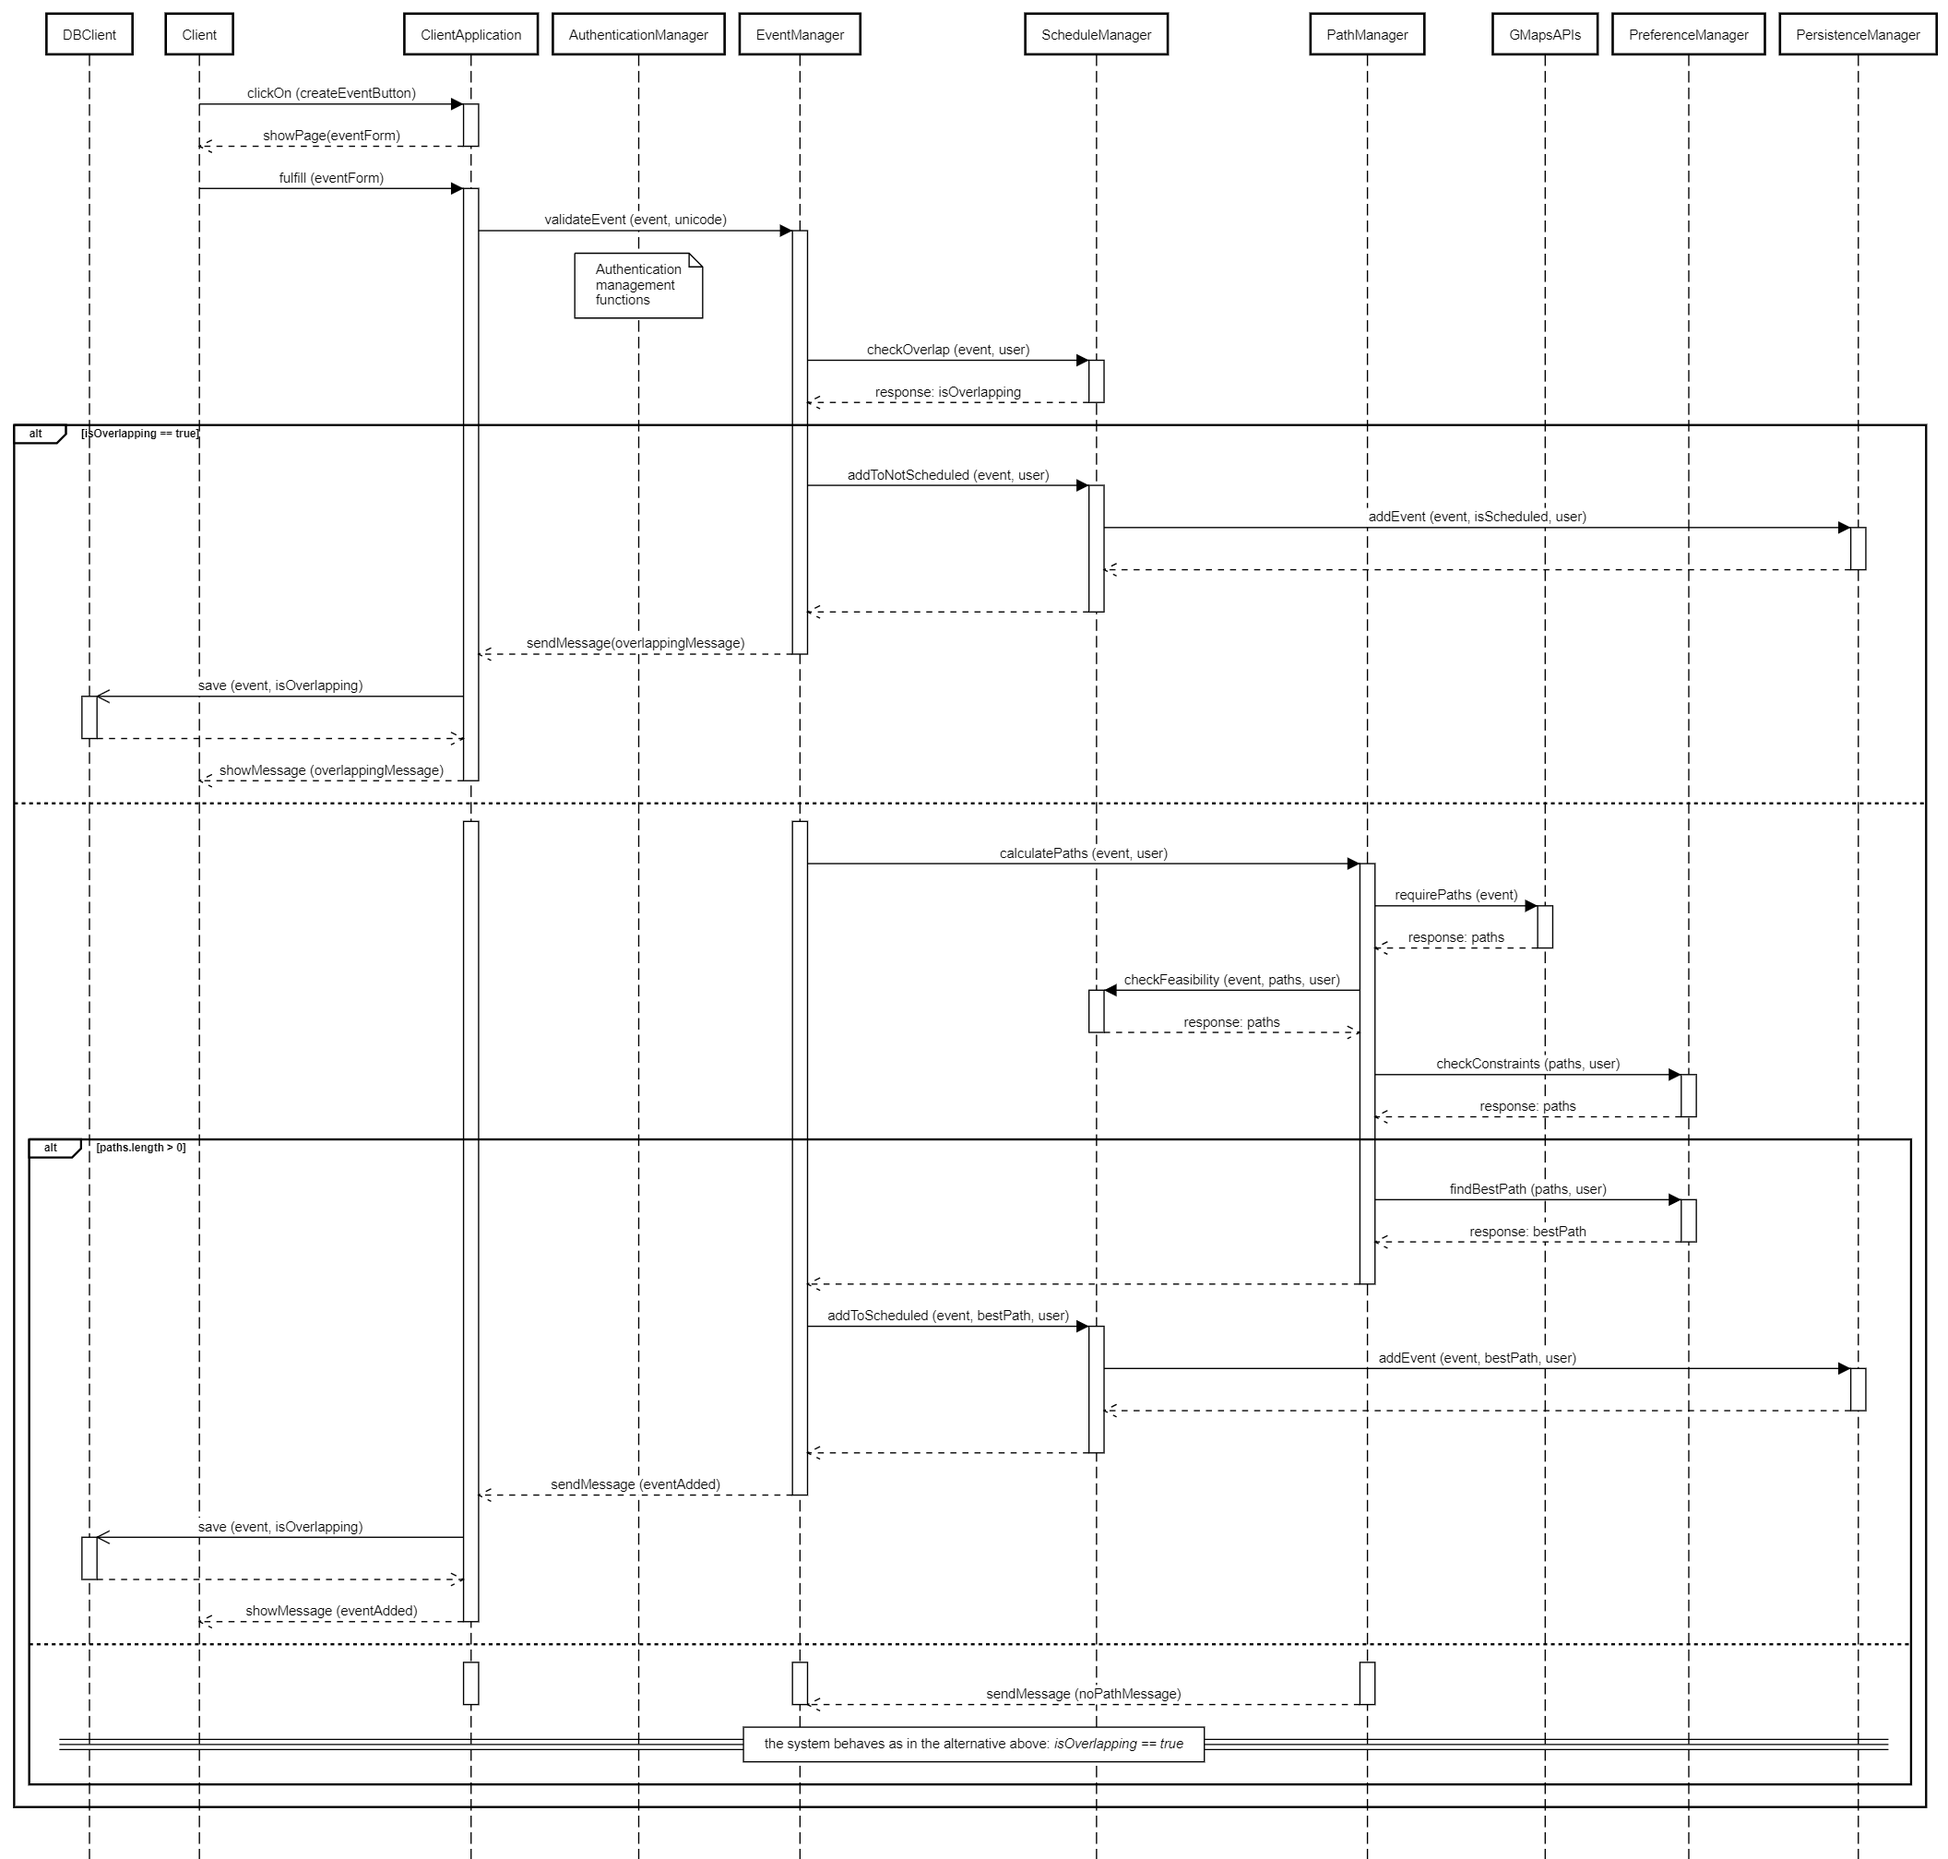
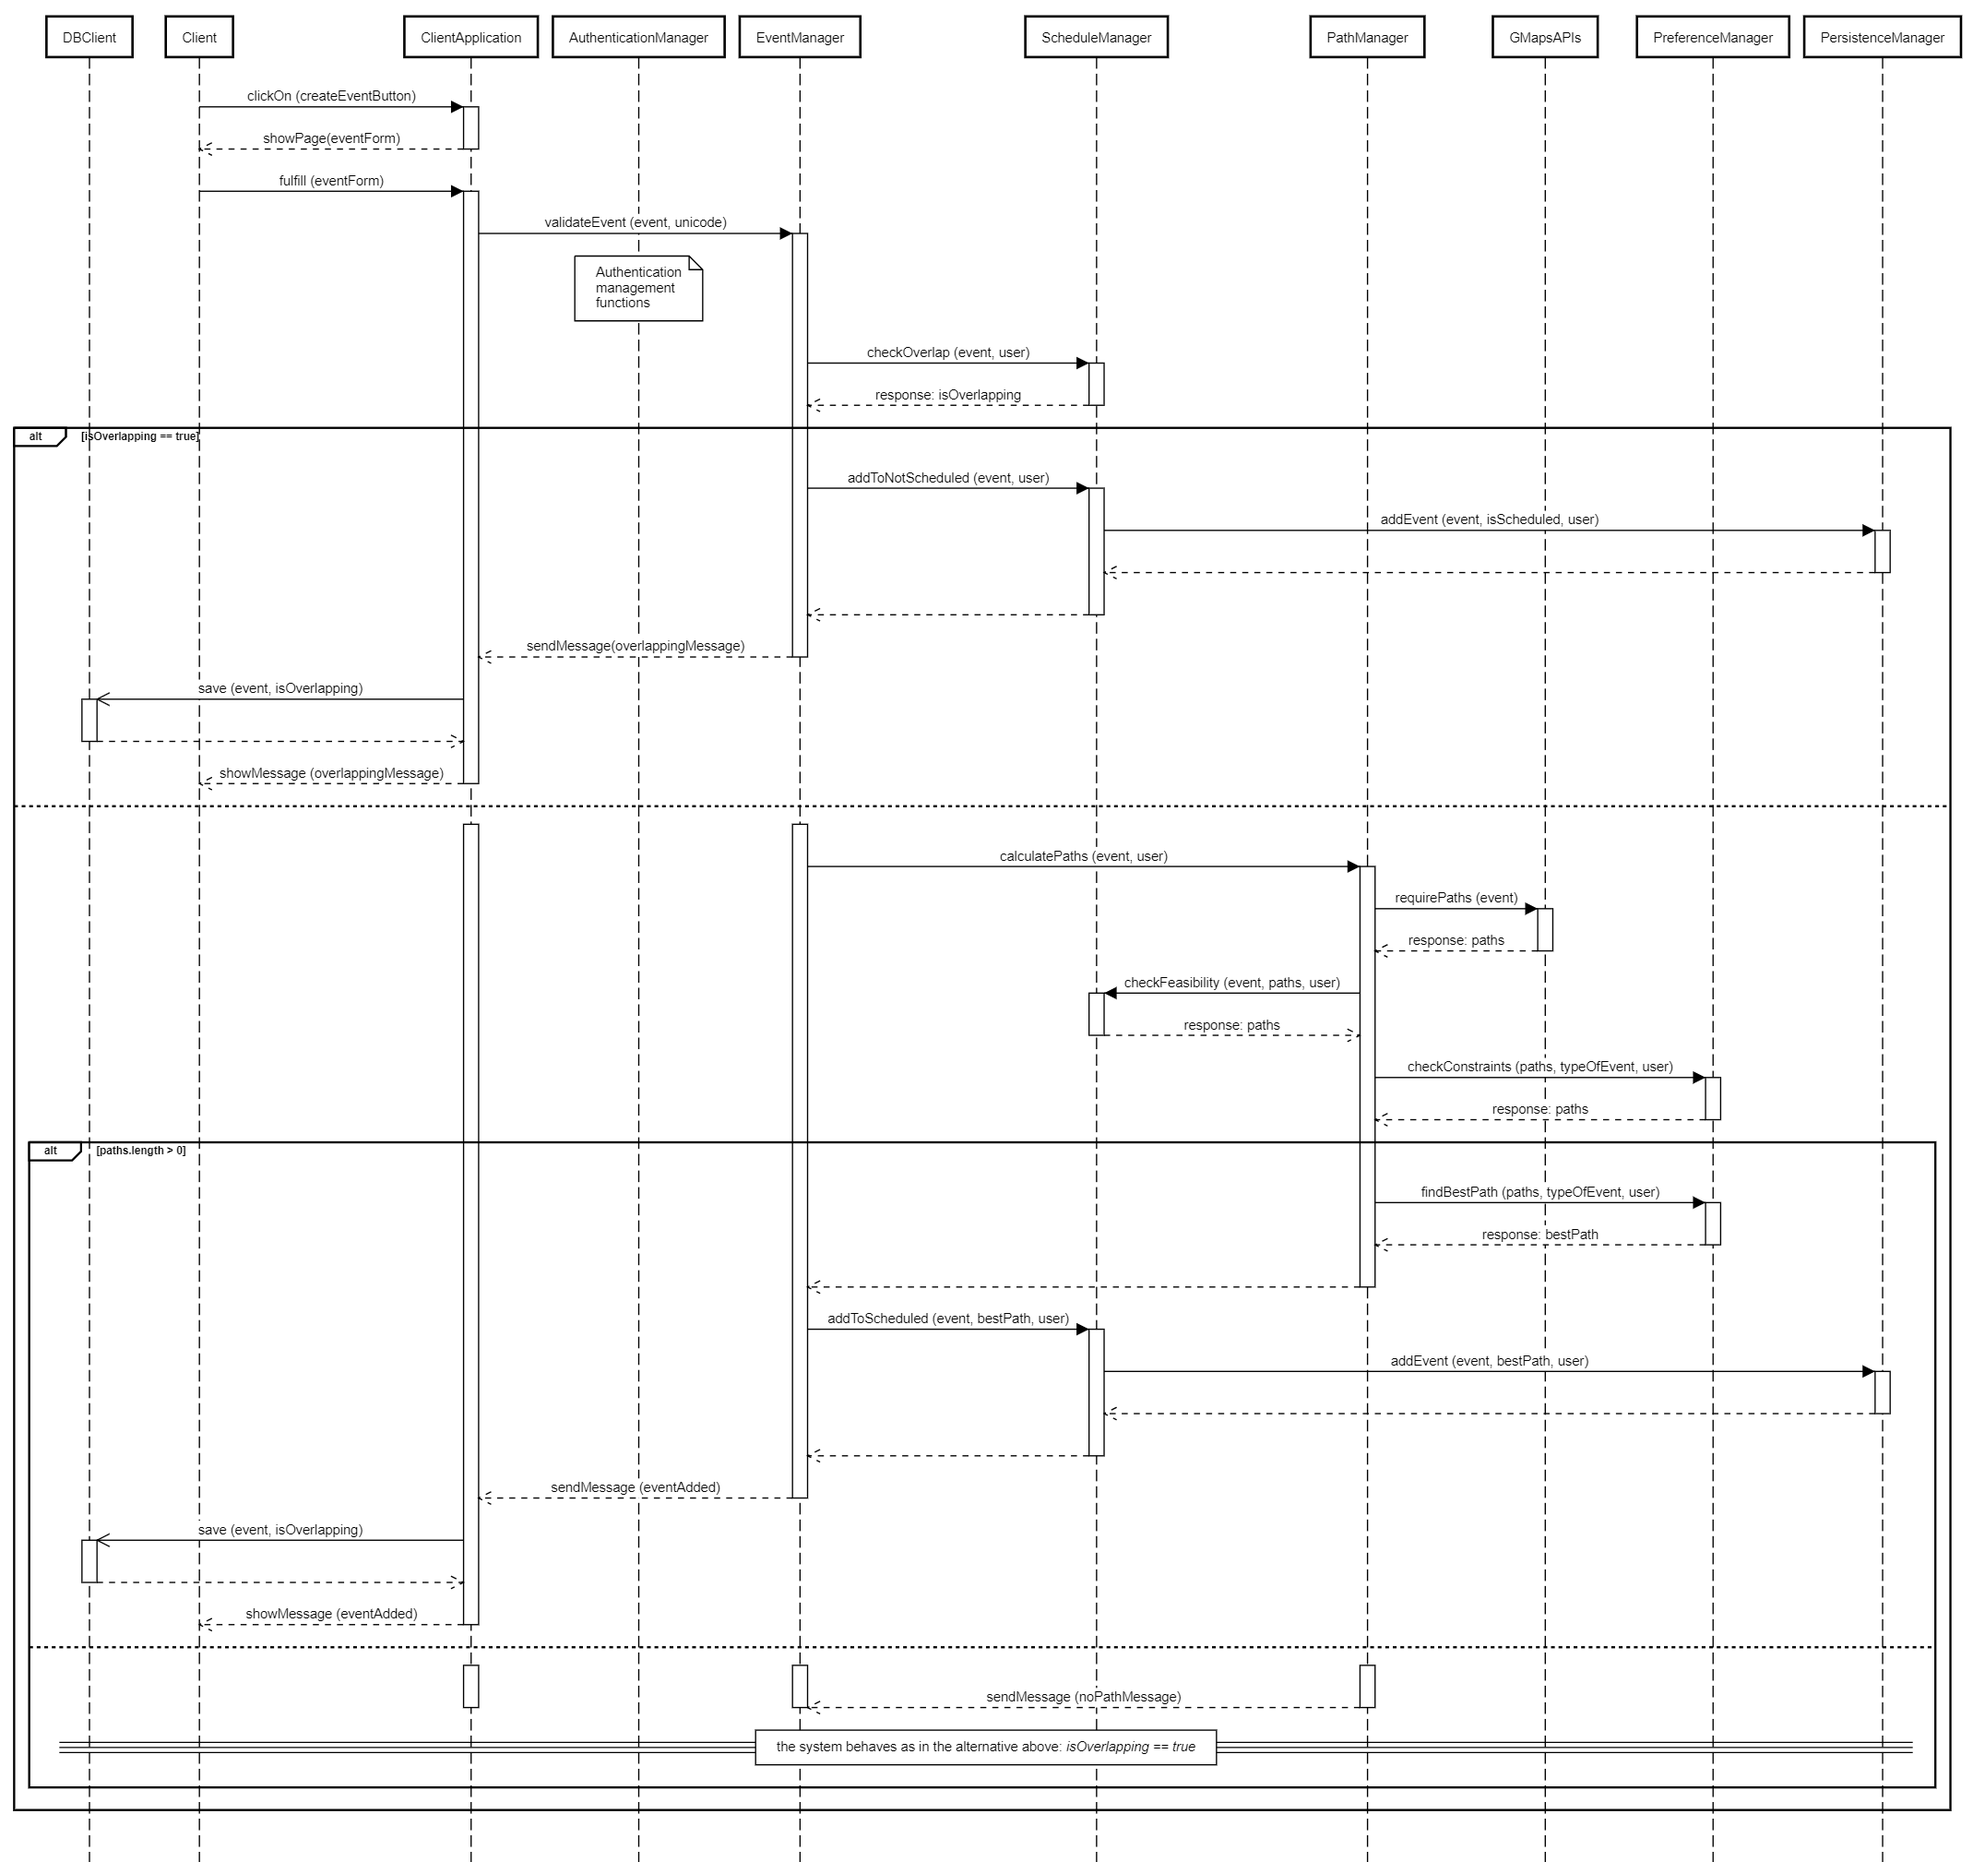
Calendar interface description

diff --git a/DD/2-ArchitecturalDesign/5-component_interfaces.tex b/DD/2-ArchitecturalDesign/5-component_interfaces.tex
@@ -1,0 +1,52 @@
+\subsection{IManageCalendar}
+\label{subsect: IManageCalendar}
+\textit{IManageCalendar} is the core of the system: it provides all the useful operations to assist the user in the organization of his commitments. The interface contains some functions accessible from outside and other functions that can be used only into the system. This interface is subdivided into four external interfaces and three internal interfaces.
+
+\subsubsection{IExternalScheduleManagenent}
+\begin{itemize}
+\item \textit{getUpdatedSchedule(unicode, timestampLocal)}: it updates the user schedule into local database (GET method);
+\item \textit{getDailySchedule(day, unicode)}: it allows to obtain the schedule of a specified day (GET method);
+\item \textit{addEventToSchedule(overlappingEvent, unicode)}: it is used when the user want to force into the schedule an overlapping event (PATCH method). 
+\end{itemize}
+\subsubsection{IExternalEventManagement}
+\begin{itemize}
+\item \textit{getEventUpdated(unicode, timestampLocal)}: it updates the user events into the local database. This function returns also the best path for each event (GET method);
+\item \textit{getEventInfo(event, unicode)}: it allows to obtain the info related to a specific event (GET method);
+\item \textit{addEvent(event, unicode)}: it begins the task of adding the event specified by the user. Internal methods will be used in order to add correctly the event into the database;
+\item \textit{modifyEvent(event, unicode)}: it allows the user to modify a previously inserted event (UPDATE method);
+\item \textit{deleteEvent(event, unicode)}: it allows the user to delete a previously inserted event (DELETE method);
+\item \textit{performAlternativeRequests (path, unicode)}: it is used when the user want to obtain alternative feasible paths of a selected path.
+\end{itemize}
+\subsection{IExternalPreferenceManagement}
+\begin{itemize}
+\item \textit{getPreferenceProfiles(unicode)}: it allows to obtain the profiles, containing user preferences, defined by a user. These profiles are named "type of events" (GET method);
+\item \textit{addPreference(typeOfEvent, unicode)} it allows the user to add a new type of event with a set of preferences and constraints (POST method);
+\item \textit{modifyPreference(typeOfEvent, unicode)} it allows the user to modify a previously inserted type of event (UPDATE method);
+\item \textit{deletePreference(typeOfEvent, unicode)}: it allows the user to delete a previously inserted type of event (DELETE method).
+\end{itemize}
+\subsubsection{IExternalPathManagement}
+\begin{itemize}
+\item \textit{getPathInfo(event, unicode)}: it is used to obtain info related to a specific path that is part of the schedule (GET method);
+\item \textit{getMap(unicode)}: it is used to obtain info that allow to track user travels on the map (GET method).
+\end{itemize}
+\subsubsection{IScheduleManager}
+\begin{itemize}
+\item \textit{checkOverlap(event, user)}: it is used during the creation of an event and indicate if it is already present an event in the period specified for the new one;
+\item \textit{addToNotScheduled(event, user)}: it adds the event into the database as a not scheduled event (POST method);
+\item \textit{addToScheduled(event, bestPath, user)}: it adds the event into the database as a scheduled event (POST method);
+\item \textit{checkFeasibility(event, paths, user)}: it allows to discard not feasible paths. This function is used during the calculation of the paths related to an event;
+\item \textit{isScheduleFeasible(user)}: it indicates if the schedule proposed to the user is free from overlapping;
+\item \textit{isBreakEventScheduled(breakEvent, user)}: it indicates if a specified break event is included into the proposed schedule.
+\end{itemize}
+\subsubsection{IPreferenceManager}
+\begin{itemize}
+\item \textit{checkConstraints(paths, typeOfEvent, user}): it allows to discard paths that not respect constraints defined by the user. This function is used during the calculation of the paths relted to an event;
+\item \textit{findBestPath(paths, typeOfEvent, user)}: it indicates, among different paths, which is the best one according to a parameter of the type of event defined by the user ;
+-\item \textit{isVehicleAllowed (event, vehicle)}: it indicates if a vehicle can be used for a given event, according to the type of that event and any constraint defined by the user on hour of travel or max length with a travel mean.
+\end{itemize}
+\subsubsection{IPathManager}
+\begin{itemize}
+\item \textit{calculatePaths(event, user)}: it manages the interaction with Google Maps APIs in order to obtain all the paths related to a certain event;
+\item \textit{addPathPathsWithSharingVehicle(vehicle, event)}: it is called by \textit{calculatePaths} and allows to consider, according to user preferences, the sharing vehicles in the calculation of paths. Google Maps APIs don't provide information about sharing vehicles. 
+
+\end{itemize}

diff --git a/DD/DD.tex b/DD/DD.tex
@@ -105,7 +105,7 @@
 			
 		\section{Component interfaces}
 		\label{sect:Component interfaces}
-			\todo{TODO}
+			\input{./2-ArchitecturalDesign/5-component_interfaces.tex}
 		
 		\section{Selected architectural styles and patterns}
 		\label{sect:Selected architectural styles and patterns}
